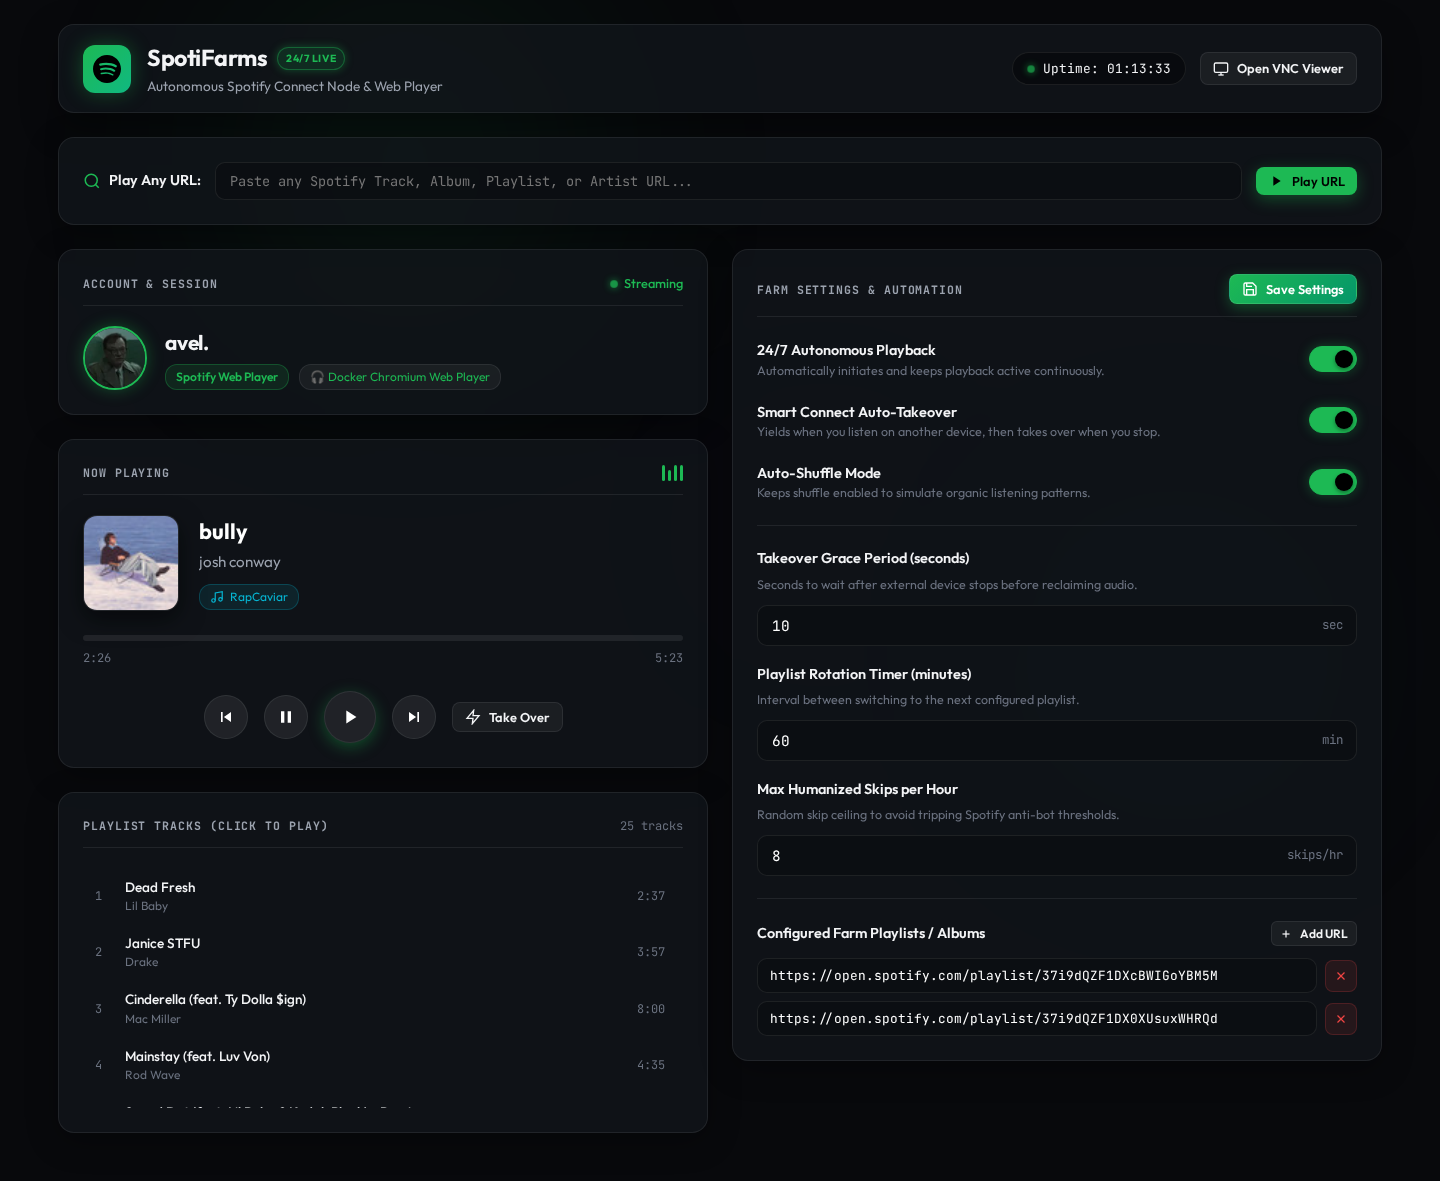
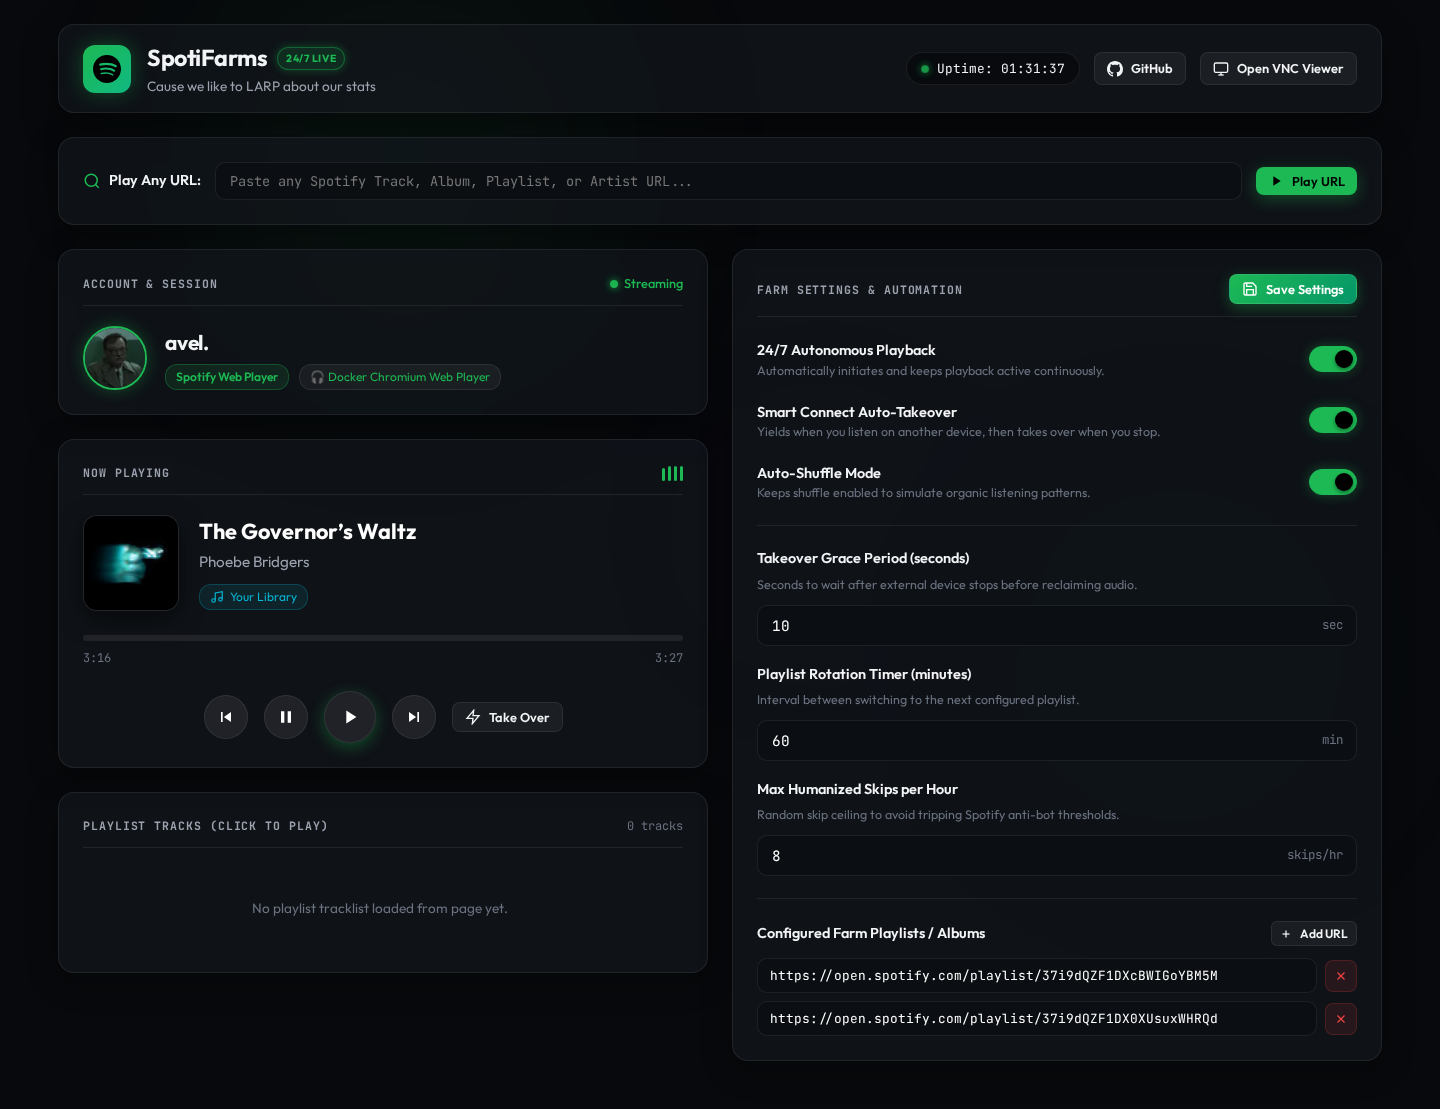
ui: update dashboard slogan to 'Cause we like to LARP about our stats' and add GitHub repo link

diff --git a/src/webui/index.html b/src/webui/index.html
@@ -27,7 +27,7 @@
         </div>
         <div class="brand-text">
           <h1>SpotiFarms <span class="badge badge-pulse">24/7 LIVE</span></h1>
-          <p class="subtitle">Autonomous Spotify Connect Node & Web Player</p>
+          <p class="subtitle">Cause we like to LARP about our stats</p>
         </div>
       </div>
 
@@ -37,6 +37,12 @@
           <span class="label">Uptime:</span>
           <span class="val" id="uptimeVal">00:00:00</span>
         </div>
+        <a href="https://github.com/ELAVL-BAT/SpotiFarm" target="_blank" rel="noopener noreferrer" class="btn btn-glass btn-sm" id="githubBtn" title="GitHub Repository">
+          <svg width="16" height="16" viewBox="0 0 24 24" fill="currentColor">
+            <path d="M12 0C5.37 0 0 5.37 0 12c0 5.31 3.435 9.795 8.205 11.385.6.105.825-.255.825-.57 0-.285-.015-1.23-.015-2.235-3.015.555-3.795-.735-4.035-1.41-.135-.345-.72-1.41-1.23-1.695-.42-.225-1.02-.78-.015-.795.945-.015 1.62.87 1.845 1.23 1.08 1.815 2.805 1.305 3.495.99.105-.78.42-1.305.765-1.605-2.67-.3-5.46-1.335-5.46-5.925 0-1.305.465-2.385 1.23-3.225-.12-.3-.54-1.53.12-3.18 0 0 1.005-.315 3.3 1.23.96-.27 1.98-.405 3-.405s2.04.135 3 .405c2.295-1.56 3.3-1.23 3.3-1.23.66 1.65.24 2.88.12 3.18.765.84 1.23 1.905 1.23 3.225 0 4.605-2.805 5.625-5.475 5.925.435.375.81 1.095.81 2.22 0 1.605-.015 2.895-.015 3.3 0 .315.225.69.825.57A12.02 12.02 0 0024 12c0-6.63-5.37-12-12-12z"/>
+          </svg>
+          GitHub
+        </a>
         <a href="http://localhost:6080/vnc.html" target="_blank" class="btn btn-glass btn-sm" id="vncBtn">
           <svg width="16" height="16" viewBox="0 0 24 24" fill="none" stroke="currentColor" stroke-width="2">
             <rect x="2" y="3" width="20" height="14" rx="2" ry="2"></rect>
